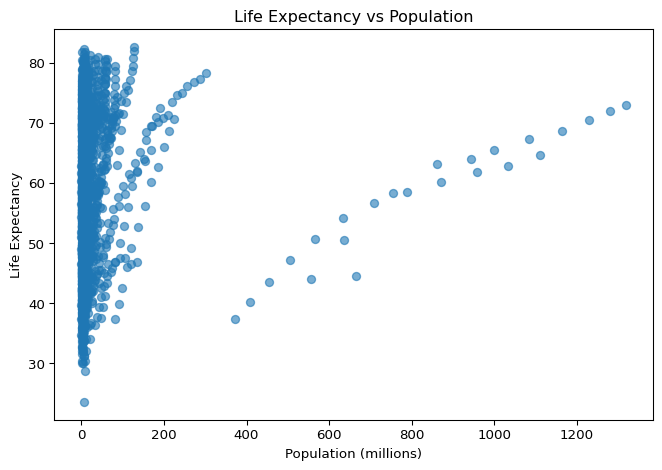
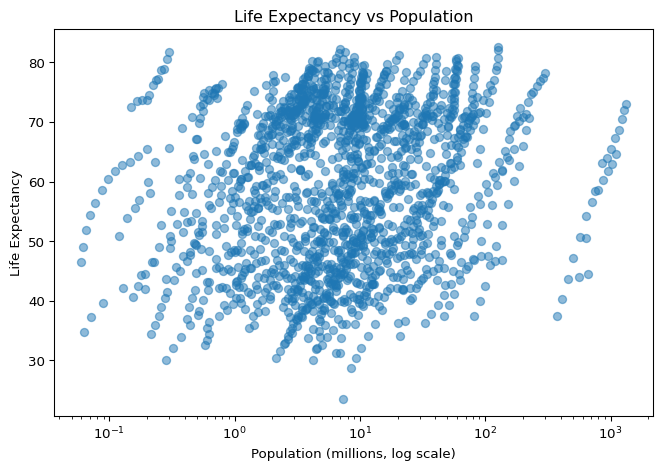
Use log scale for population plot

diff --git a/docs/life-population.html b/docs/life-population.html
@@ -7,7 +7,7 @@
 <meta name="viewport" content="width=device-width, initial-scale=1.0, user-scalable=yes">
 
 
-<title>Life Expectancy and Population – DATASCI 350 - Quiz 02</title>
+<title>life-population – DATASCI 350 - Quiz 02</title>
 <style>
 code{white-space: pre-wrap;}
 span.smallcaps{font-variant: small-caps;}
@@ -155,41 +155,31 @@ pre > code.sourceCode > span > a:first-child::before { text-decoration: underlin
         
     </div>
 <!-- main -->
-<main class="content" id="quarto-document-content">
-
-<header id="title-block-header" class="quarto-title-block default">
-<div class="quarto-title">
-<h1 class="title">Life Expectancy and Population</h1>
-</div>
+<main class="content" id="quarto-document-content"><header id="title-block-header" class="quarto-title-block"></header>
 
 
 
-<div class="quarto-title-meta">
 
-    
-  
-    
-  </div>
-  
-
-
-</header>
-
-
-<p>This page analyzes the relationship between life expectancy and population across countries.</p>
-<div id="42211846" class="cell" data-execution_count="1">
+<div id="038e69af" class="cell" data-execution_count="1">
 <div class="code-copy-outer-scaffold"><div class="sourceCode cell-code" id="cb1"><pre class="sourceCode python code-with-copy"><code class="sourceCode python"><span id="cb1-1"><a href="#cb1-1" aria-hidden="true" tabindex="-1"></a><span class="im">import</span> pandas <span class="im">as</span> pd</span>
 <span id="cb1-2"><a href="#cb1-2" aria-hidden="true" tabindex="-1"></a><span class="im">import</span> matplotlib.pyplot <span class="im">as</span> plt</span>
-<span id="cb1-3"><a href="#cb1-3" aria-hidden="true" tabindex="-1"></a></span>
-<span id="cb1-4"><a href="#cb1-4" aria-hidden="true" tabindex="-1"></a>df <span class="op">=</span> pd.read_csv(<span class="st">"gapminder.csv"</span>)</span>
-<span id="cb1-5"><a href="#cb1-5" aria-hidden="true" tabindex="-1"></a></span>
-<span id="cb1-6"><a href="#cb1-6" aria-hidden="true" tabindex="-1"></a>plt.figure()</span>
-<span id="cb1-7"><a href="#cb1-7" aria-hidden="true" tabindex="-1"></a>plt.scatter(df[<span class="st">"population_millions"</span>], df[<span class="st">"life_expectancy"</span>], alpha<span class="op">=</span><span class="fl">0.6</span>)</span>
-<span id="cb1-8"><a href="#cb1-8" aria-hidden="true" tabindex="-1"></a>plt.xlabel(<span class="st">"Population (millions)"</span>)</span>
-<span id="cb1-9"><a href="#cb1-9" aria-hidden="true" tabindex="-1"></a>plt.ylabel(<span class="st">"Life Expectancy"</span>)</span>
-<span id="cb1-10"><a href="#cb1-10" aria-hidden="true" tabindex="-1"></a>plt.title(<span class="st">"Life Expectancy vs Population"</span>)</span>
-<span id="cb1-11"><a href="#cb1-11" aria-hidden="true" tabindex="-1"></a>plt.tight_layout()</span>
-<span id="cb1-12"><a href="#cb1-12" aria-hidden="true" tabindex="-1"></a>plt.show()</span></code></pre></div><button title="Copy to Clipboard" class="code-copy-button"><i class="bi"></i></button></div>
+<span id="cb1-3"><a href="#cb1-3" aria-hidden="true" tabindex="-1"></a><span class="im">import</span> numpy <span class="im">as</span> np</span>
+<span id="cb1-4"><a href="#cb1-4" aria-hidden="true" tabindex="-1"></a></span>
+<span id="cb1-5"><a href="#cb1-5" aria-hidden="true" tabindex="-1"></a>df <span class="op">=</span> pd.read_csv(<span class="st">"gapminder.csv"</span>)</span>
+<span id="cb1-6"><a href="#cb1-6" aria-hidden="true" tabindex="-1"></a></span>
+<span id="cb1-7"><a href="#cb1-7" aria-hidden="true" tabindex="-1"></a>x <span class="op">=</span> df[<span class="st">"population_millions"</span>].astype(<span class="bu">float</span>)</span>
+<span id="cb1-8"><a href="#cb1-8" aria-hidden="true" tabindex="-1"></a>y <span class="op">=</span> df[<span class="st">"life_expectancy"</span>].astype(<span class="bu">float</span>)</span>
+<span id="cb1-9"><a href="#cb1-9" aria-hidden="true" tabindex="-1"></a></span>
+<span id="cb1-10"><a href="#cb1-10" aria-hidden="true" tabindex="-1"></a>x <span class="op">=</span> np.where(x <span class="op">&lt;=</span> <span class="dv">0</span>, np.nan, x)</span>
+<span id="cb1-11"><a href="#cb1-11" aria-hidden="true" tabindex="-1"></a></span>
+<span id="cb1-12"><a href="#cb1-12" aria-hidden="true" tabindex="-1"></a>plt.figure()</span>
+<span id="cb1-13"><a href="#cb1-13" aria-hidden="true" tabindex="-1"></a>plt.scatter(x, y, alpha<span class="op">=</span><span class="fl">0.5</span>)</span>
+<span id="cb1-14"><a href="#cb1-14" aria-hidden="true" tabindex="-1"></a>plt.xscale(<span class="st">"log"</span>)</span>
+<span id="cb1-15"><a href="#cb1-15" aria-hidden="true" tabindex="-1"></a>plt.xlabel(<span class="st">"Population (millions, log scale)"</span>)</span>
+<span id="cb1-16"><a href="#cb1-16" aria-hidden="true" tabindex="-1"></a>plt.ylabel(<span class="st">"Life Expectancy"</span>)</span>
+<span id="cb1-17"><a href="#cb1-17" aria-hidden="true" tabindex="-1"></a>plt.title(<span class="st">"Life Expectancy vs Population"</span>)</span>
+<span id="cb1-18"><a href="#cb1-18" aria-hidden="true" tabindex="-1"></a>plt.tight_layout()</span>
+<span id="cb1-19"><a href="#cb1-19" aria-hidden="true" tabindex="-1"></a>plt.show()</span></code></pre></div><button title="Copy to Clipboard" class="code-copy-button"><i class="bi"></i></button></div>
 <div class="cell-output cell-output-display">
 <div>
 <figure class="figure">

diff --git a/docs/country.html b/docs/country.html
@@ -177,7 +177,7 @@ pre > code.sourceCode > span > a:first-child::before { text-decoration: underlin
 
 
 <p>This page tracks changes in life expectancy, GDP per capita, and population over time for the United States.</p>
-<div id="4bce2de4" class="cell" data-execution_count="1">
+<div id="b3ec65ee" class="cell" data-execution_count="1">
 <div class="code-copy-outer-scaffold"><div class="sourceCode cell-code" id="cb1"><pre class="sourceCode python code-with-copy"><code class="sourceCode python"><span id="cb1-1"><a href="#cb1-1" aria-hidden="true" tabindex="-1"></a><span class="im">import</span> pandas <span class="im">as</span> pd</span>
 <span id="cb1-2"><a href="#cb1-2" aria-hidden="true" tabindex="-1"></a><span class="im">import</span> matplotlib.pyplot <span class="im">as</span> plt</span>
 <span id="cb1-3"><a href="#cb1-3" aria-hidden="true" tabindex="-1"></a></span>

diff --git a/docs/life-gdp.html b/docs/life-gdp.html
@@ -177,7 +177,7 @@ pre > code.sourceCode > span > a:first-child::before { text-decoration: underlin
 
 
 <p>This page examines how life expectancy relates to GDP per capita across countries.</p>
-<div id="73a315d5" class="cell" data-execution_count="1">
+<div id="97b7a4cc" class="cell" data-execution_count="1">
 <div class="code-copy-outer-scaffold"><div class="sourceCode cell-code" id="cb1"><pre class="sourceCode python code-with-copy"><code class="sourceCode python"><span id="cb1-1"><a href="#cb1-1" aria-hidden="true" tabindex="-1"></a><span class="im">import</span> pandas <span class="im">as</span> pd</span>
 <span id="cb1-2"><a href="#cb1-2" aria-hidden="true" tabindex="-1"></a><span class="im">import</span> matplotlib.pyplot <span class="im">as</span> plt</span>
 <span id="cb1-3"><a href="#cb1-3" aria-hidden="true" tabindex="-1"></a></span>
